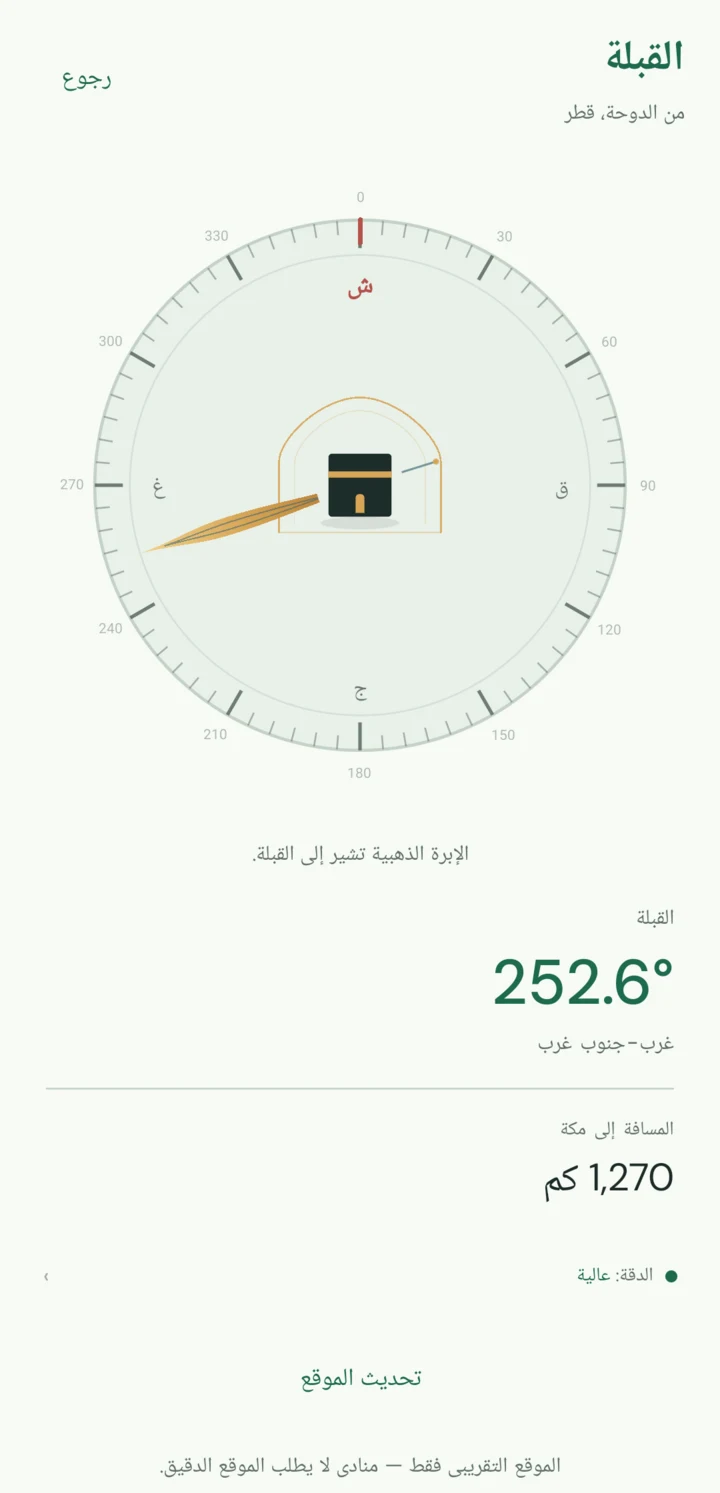
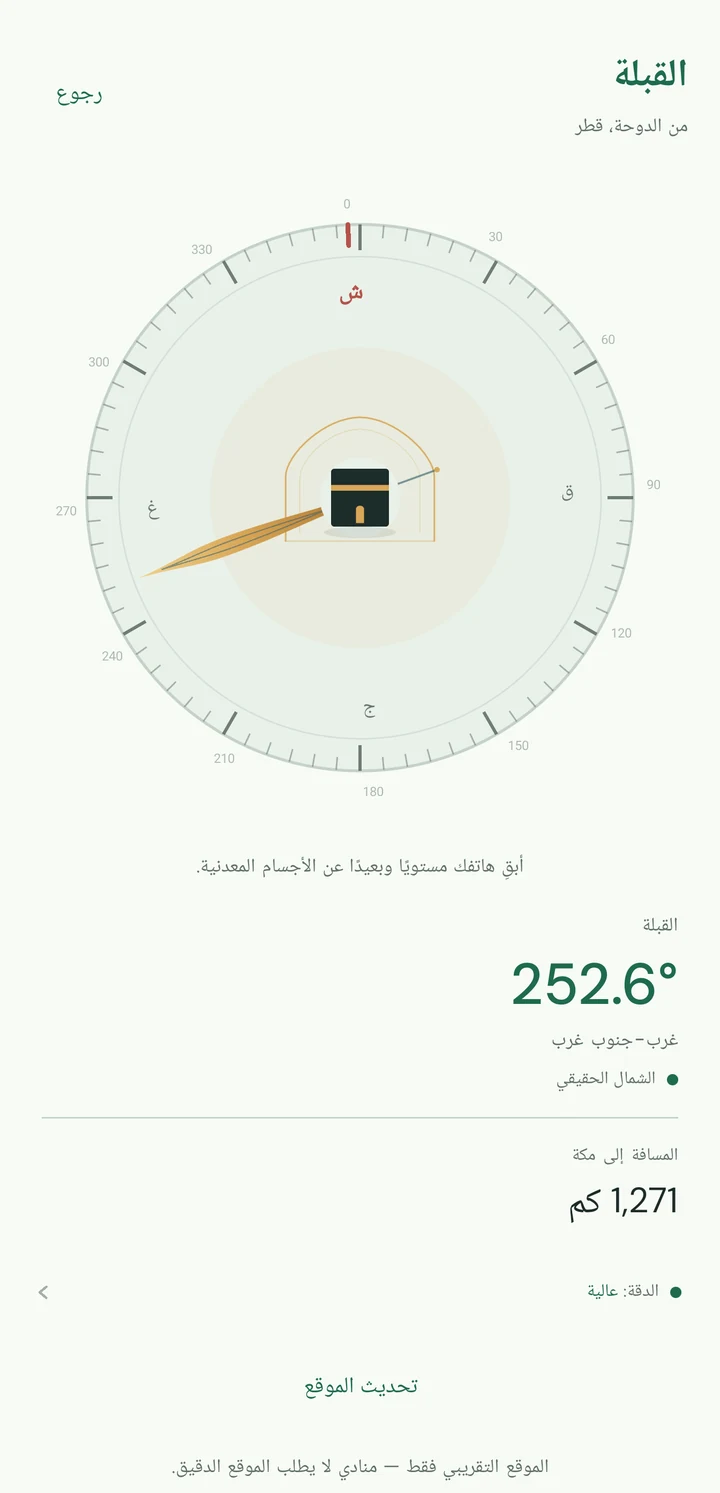
Refresh the site for Munadi 0.13.74
Reflect the current APK: Doha plus the Abu Samra, Dukhan and Al
Shamal Fajr/Maghrib shifts, true-north Qibla, the highest-priority
adhan option, widget countdown track and sizes, settings export and
import, adjustable update checks, and the 12/24-hour choice.

Update the privacy summary so location is described as also used for
the prayer-time area. Bump the API fallback to 0.13.74 with its size
and digest, and replace the four screenshots and OG image with current
English and Arabic captures.

diff --git a/src/data/content.ts b/src/data/content.ts
@@ -92,7 +92,7 @@ export const content: Record<Lang, LandingContent> = {
     meta: {
       title: 'Munadi — Prayer times for Qatar, quietly done',
       description:
-        'A lightweight, private prayer-times app for Qatar: accurate offline timings, iqamah, Qibla, adhan and widget in Arabic and English. No ads or trackers.',
+        'A lightweight, private prayer-times app for Qatar: offline Doha, Abu Samra, Dukhan and Al Shamal timings, iqamah, Qibla, adhan and widget. No ads or trackers.',
     },
     brand: 'Munadi',
     nav: {
@@ -108,7 +108,7 @@ export const content: Record<Lang, LandingContent> = {
       eyebrow: 'Qatar prayer times · offline',
       title: 'Prayer times for Qatar.',
       titleAccent: 'Quietly done.',
-      body: 'Simple and lightweight, beautifully designed, and privacy-focused by default: accurate offline Qatar timings, iqamah, qibla, adhan and widget—all in one, in Arabic and English, with no ads and no trackers.',
+      body: 'Simple and lightweight, beautifully designed, and privacy-focused by default: accurate offline Qatar timings, with area shifts for Abu Samra, Dukhan and Al Shamal, iqamah, qibla, adhan and widget—all in one, in Arabic and English, with no ads and no trackers.',
       primary: 'Download for Android',
       secondary: 'See what’s inside',
       badge: 'Private by default',
@@ -116,6 +116,7 @@ export const content: Record<Lang, LandingContent> = {
     },
     strip: [
       'Qatar Calendar House',
+      'Area-specific timings',
       'Works offline',
       'Arabic & English',
       'Iqamah for every prayer',
@@ -144,17 +145,17 @@ export const content: Record<Lang, LandingContent> = {
         {
           icon: 'compass',
           title: 'Qibla, one permission, no extras',
-          body: 'A gold needle points to Makkah using approximate location alone — no extra permissions requested.',
+          body: 'A gold needle points to Makkah, corrected to true north, using approximate location alone — no extra permissions requested.',
         },
         {
           icon: 'volume',
           title: 'Adhan you choose',
-          body: 'Bundled adhans, short alerts, a beep, silence, or your own audio file.',
+          body: 'Bundled adhans, short alerts, a beep, silence, or your own audio file — plus a highest-priority mode for phones that delay alarms.',
         },
         {
           icon: 'widget',
           title: 'A widget that waits',
-          body: 'Next prayer and iqamah on your home screen. One color for every widget — Dynamic, Munadi, Maroon, Sand, Ocean or Rose — and the card stays dark in both app themes.',
+          body: 'Next prayer and iqamah on your home screen, with a countdown track, the Hijri date and sizes for every layout. One color for every widget — Dynamic, Munadi, Maroon, Sand, Ocean or Rose.',
         },
         {
           icon: 'globe',
@@ -164,19 +165,20 @@ export const content: Record<Lang, LandingContent> = {
         {
           icon: 'shield',
           title: 'Private by design',
-          body: 'No accounts, ads, analytics, or trackers. Your settings stay on your device.',
+          body: 'No accounts, ads, analytics, or trackers. Your settings and location stay on your device.',
         },
       ],
     },
     qatar: {
       eyebrow: 'Built for Qatar',
       title: 'The timetable is the app.',
-      body: 'Munadi does not guess prayer times from the sun. It carries the Qatar Calendar House annual table inside the APK, so every time is the published Qatari time—even in airplane mode.',
+      body: 'Munadi does not guess prayer times from the sun. It carries the Qatar Calendar House annual table inside the APK, so every time is the published Qatari time—even in airplane mode. Doha is the base, with the published Fajr and Maghrib shifts for Abu Samra, Dukhan and Al Shamal.',
       points: [
         'Qatar Calendar House annual table',
+        'Doha base with Abu Samra, Dukhan and Al Shamal shifts',
         'Qatar iqamah defaults, editable per prayer',
         'Islamic midnight and the last third of the night',
-        'Follows your Android 12/24-hour setting',
+        '12/24-hour time, following Android or your choice',
       ],
       quote: 'No network. No lookup. No waiting.',
       stat: '365',
@@ -193,7 +195,7 @@ export const content: Record<Lang, LandingContent> = {
     download: {
       eyebrow: 'Download',
       title: 'Take the quiet with you.',
-      body: 'The latest signed APK, direct from GitHub. Free, ad-free, and tracker-free.',
+      body: 'The latest signed APK, direct from GitHub. Free, ad-free, and tracker-free, with update checks you control and settings that move with you.',
       button: 'Download latest APK',
       notes: 'Release notes & checksum',
       versionLabel: 'Version',
@@ -206,7 +208,7 @@ export const content: Record<Lang, LandingContent> = {
     privacy: {
       eyebrow: 'Privacy',
       title: 'Your data stays yours.',
-      body: 'No accounts. No analytics. No tracking. Approximate location is used only for the Qibla compass and place name, and your settings stay on your device.',
+      body: 'No accounts. No analytics. No tracking. Approximate location is used only for the Qibla compass, place name and prayer-time area, and your settings stay on your device.',
       link: 'Read the privacy policy',
       stats: [
         { value: '0', label: 'accounts' },
@@ -230,7 +232,7 @@ export const content: Record<Lang, LandingContent> = {
     meta: {
       title: 'منادي — مواقيت الصلاة في قطر، بهدوء',
       description:
-        'تطبيق خفيف وخاص لمواقيت الصلاة في قطر: مواقيت دقيقة دون اتصال، مع الإقامة والقبلة والأذان والودجة بالعربية والإنجليزية. بلا إعلانات أو متتبعات.',
+        'تطبيق خفيف وخاص لمواقيت الصلاة في قطر: مواقيت دقيقة دون اتصال، مع فروق مناطق أبو سمرة ودخان والشمال، والإقامة والقبلة والأذان والودجة بالعربية والإنجليزية. بلا إعلانات أو متتبعات.',
     },
     brand: 'منادي',
     nav: {
@@ -246,7 +248,7 @@ export const content: Record<Lang, LandingContent> = {
       eyebrow: 'مواقيت الصلاة في قطر · دون اتصال',
       title: 'مواقيت الصلاة في قطر.',
       titleAccent: 'بهُدوء.',
-      body: 'بسيط وخفيف، مصمم بعناية، والخصوصية أساسه: مواقيت قطرية دقيقة دون اتصال، مع الإقامة والقبلة والأذان والودجة — كل ذلك في تطبيق واحد، بالعربية والإنجليزية، بلا إعلانات أو متتبعات.',
+      body: 'بسيط وخفيف، مصمم بعناية، والخصوصية أساسه: مواقيت قطرية دقيقة دون اتصال، مع فروق المناطق لأبو سمرة ودخان والشمال، والإقامة والقبلة والأذان والودجة — كل ذلك في تطبيق واحد، بالعربية والإنجليزية، بلا إعلانات أو متتبعات.',
       primary: 'حمّل لأندرويد',
       secondary: 'اكتشف التطبيق',
       badge: 'الخصوصية أساس التصميم',
@@ -254,6 +256,7 @@ export const content: Record<Lang, LandingContent> = {
     },
     strip: [
       'تقويم قطر الدائم',
+      'مواقيت حسب المنطقة',
       'يعمل دون اتصال',
       'بالعربية والإنجليزية',
       'إقامة لكل صلاة',
@@ -282,17 +285,17 @@ export const content: Record<Lang, LandingContent> = {
         {
           icon: 'compass',
           title: 'القبلة بإذن واحد، بلا أذونات إضافية',
-          body: 'إبرة قلم ذهبية تشير إلى مكة باستخدام موقعك التقريبي فقط — دون طلب أي أذونات إضافية.',
+          body: 'إبرة قلم ذهبية تشير إلى مكة، مصححة للشمال الحقيقي، باستخدام موقعك التقريبي فقط — دون طلب أي أذونات إضافية.',
         },
         {
           icon: 'volume',
           title: 'الأذان الذي تختاره',
-          body: 'أذانات مضمّنة، تنبيهات قصيرة، نغمة، صمت، أو ملفك الصوتي الخاص.',
+          body: 'أذانات مضمّنة، تنبيهات قصيرة، نغمة، صمت، أو ملفك الصوتي الخاص — مع وضع أعلى أولوية للهواتف التي تؤخر المنبّهات.',
         },
         {
           icon: 'widget',
           title: 'ودجة تنتظرك',
-          body: 'الصلاة القادمة والإقامة على شاشتك الرئيسية. لون واحد لجميع الودجات — ديناميكي، منادي، عنابي، رملي، محيطي أو وردي — وتبقى البطاقة داكنة في المظهرين.',
+          body: 'الصلاة القادمة والإقامة على شاشتك الرئيسية، مع شريط عدّ تنازلي والتاريخ الهجري وأحجام تناسب كل تخطيط. لون واحد لجميع الودجات — ديناميكي، منادي، عنابي، رملي، محيطي أو وردي.',
         },
         {
           icon: 'globe',
@@ -302,19 +305,20 @@ export const content: Record<Lang, LandingContent> = {
         {
           icon: 'shield',
           title: 'الخصوصية أساس التصميم',
-          body: 'لا حسابات، لا إعلانات، لا تحليلات، ولا متتبعات. إعداداتك تبقى على جهازك.',
+          body: 'لا حسابات، لا إعلانات، لا تحليلات، ولا متتبعات. إعداداتك وموقعك يبقيان على جهازك.',
         },
       ],
     },
     qatar: {
       eyebrow: 'مصمم لقطر',
       title: 'الجدول هو التطبيق.',
-      body: 'لا يخمّن منادي مواقيت الصلاة من موقع الشمس. بل يحمل جدول تقويم قطر الدائم السنوي داخل التطبيق، لتكون كل مواقيت هي المواقيت القطرية المنشورة — حتى في وضع الطيران.',
+      body: 'لا يخمّن منادي مواقيت الصلاة من موقع الشمس. بل يحمل جدول تقويم قطر الدائم السنوي داخل التطبيق، لتكون كل مواقيت هي المواقيت القطرية المنشورة — حتى في وضع الطيران. الدوحة هي الجدول الأساسي، مع فروق الفجر والمغرب المنشورة لأبو سمرة ودخان والشمال.',
       points: [
         'جدول تقويم قطر الدائم السنوي',
+        'الدوحة أساسًا، مع فروق أبو سمرة ودخان والشمال',
         'إقامة قطر الافتراضية، قابلة للتعديل لكل صلاة',
         'منتصف الليل الإسلامي والثلث الأخير من الليل',
-        'يتبع إعداد 12/24 ساعة في أندرويد',
+        'تنسيق 12/24 ساعة، حسب أندرويد أو اختيارك',
       ],
       quote: 'لا شبكة. لا بحث. لا انتظار.',
       stat: '365',
@@ -331,7 +335,7 @@ export const content: Record<Lang, LandingContent> = {
     download: {
       eyebrow: 'تحميل',
       title: 'خذ الهدوء معك.',
-      body: 'أحدث إصدار موقّع مباشرة من GitHub. مجاني، بلا إعلانات، وبلا متتبعات.',
+      body: 'أحدث إصدار موقّع مباشرة من GitHub. مجاني، بلا إعلانات، وبلا متتبعات، مع تحقق من التحديثات تتحكم فيه، وإعداداتك تنتقل معك.',
       button: 'حمّل أحدث إصدار',
       notes: 'ملاحظات الإصدار والبصمة',
       versionLabel: 'الإصدار',
@@ -344,7 +348,7 @@ export const content: Record<Lang, LandingContent> = {
     privacy: {
       eyebrow: 'الخصوصية',
       title: 'بياناتك تبقى لك.',
-      body: 'لا حسابات. لا تحليلات. لا تتبعات. يُستخدم الموقع التقريبي فقط لبوصلة القبلة واسم المكان، وتبقى إعداداتك على جهازك.',
+      body: 'لا حسابات. لا تحليلات. لا تتبعات. يُستخدم الموقع التقريبي فقط لبوصلة القبلة واسم المكان ومنطقة مواقيت الصلاة، وتبقى إعداداتك على جهازك.',
       link: 'اقرأ سياسة الخصوصية',
       stats: [
         { value: '0', label: 'حسابات' },

diff --git a/src/lib/release.ts b/src/lib/release.ts
@@ -10,13 +10,13 @@ export interface ReleaseInfo {
 // Used when the GitHub API is unavailable during a build. Keep this in sync
 // with the newest public release so the page never ships without a download.
 const fallback: ReleaseInfo = {
-  version: '0.13.54',
-  size: '8.4 MB',
[1 lines of base64/hex data omitted]
+  version: '0.13.74',
+  size: '8.6 MB',
[1 lines of base64/hex data omitted]
   apkUrl:
-    'https://github.com/hackills/munadi-apks/releases/download/v0.13.54/munadi-0.13.54.apk',
-  releaseUrl: 'https://github.com/hackills/munadi-apks/releases/tag/v0.13.54',
-  published: '2 November 2026',
+    'https://github.com/hackills/munadi-apks/releases/download/v0.13.74/munadi-0.13.74.apk',
+  releaseUrl: 'https://github.com/hackills/munadi-apks/releases/tag/v0.13.74',
+  published: '6 November 2026',
 };
 
 interface GithubAsset {
